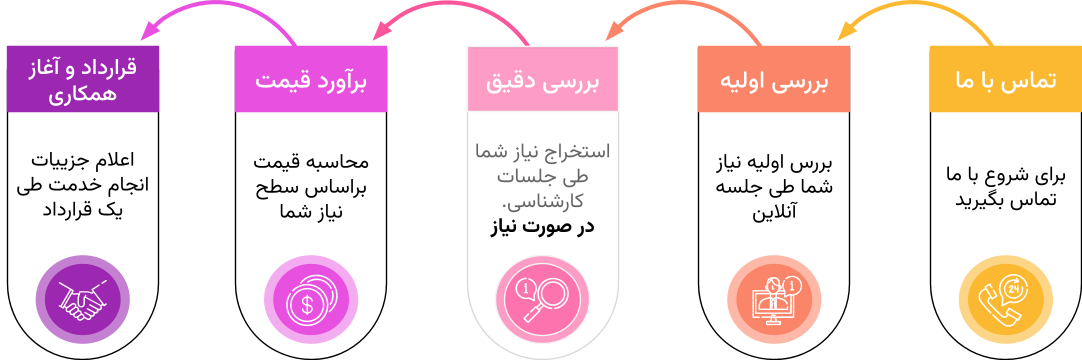
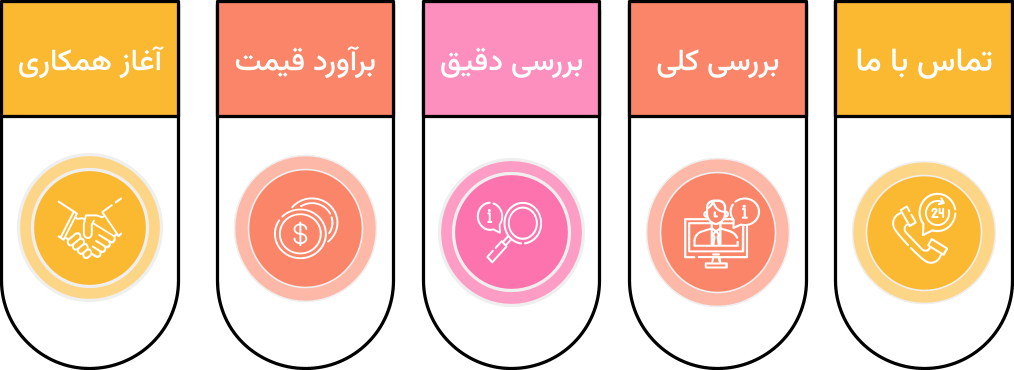
Update content based on mgh suggestions. updating cover image.

diff --git a/how-to-use-our-services/content.md b/how-to-use-our-services/content.md
@@ -1,17 +1,23 @@
 ## تماس با ما
-از طریق ایمیل، شبکههای اجتماعی و تلفن، تماس گرفته و ما را از خدمت مورد نیاز خود مطلع کنید. نحوه ارتباط با ما را میتوانید از صفحه تماس با ما مشاهده کنید.
-به طور خلاصه خدمات گزمه شامل بخشهای زیر میباشد:
-* طراحی و اجرای انواع آزمون های کارایی شامل load, stress, smoke, spike, volume. 
-* ارزیابی کیفی محصول، روند تولید و مشاوره به منظور بهبود عملکرد آن. 
+از طریق `صفحه تماس` با ما تماس بگیرید و ما را از خدمت مورد نیاز خود مطلع کنید. 
+به طور خلاصه برای خدمات زیر میتوانید اینگونه عمل کنید:
+* طراحی و اجرای انواع آزمون های کارایی شامل `load, stress, smoke, spike, volume`. 
+* ارزیابی و بازبینی کیفی محصول، شامل جنبههای مختلف کیفی همچون روند تولید و مشاوره به منظور بهبود کیفیت.
 * مشاوره، طراحی و اجرای سرویسهای DevOps از سطح زیرساخت تا تمامی ابزارها. 
-جزییات تمامی خدمات گزمه در بخش خدمات ما قابل مشاهده میباشد.
-## بررسی اولیه نیازمندی شما
-طی یک جلسه آنلاین نیازمندی شما توسط کارشناسان ما بررسی میگردد. برای خدمت آزمون کارایی، سوالاتی در خصوص میزان کاربران و تکنولوژی سامانه پرسیده خواهد شد تا بتوانیم الگویی برای تزریق بار به سیستم پیشنهاد دهیم. اگر نیازمندی شما بررسی کیفی سامانه باشد، تکنولوژی و روند توسعه سامانه، به منظور استخراج متریکهای کیفی بررسی میگردد. برای سرویس مشاوره و اجرای DevOps وضعیت فعلی شما استخراج گردیده تا بهترین نقشه راه پیشنهاد گردد.
-## بررسی دقیق نیازمندی شما
-پس از ارزیابی اولیه نیازمندی شما، نوبت به استخراج دقیق آن و تعیین محدوده خدمت مورد نظر میباشد. برای خدمت ارزیابی کارایی، در صورت در دسترس بودن سامانه مورد نظر تحت اینترنت میتوان با سرعت بالا  مورد بررسی قرار گیرد و یا اگر ایجاد دسترسی از خارج از سازمان به دلیل ملاحظات امنیتی و زیرساختی میسر نباشد، میتوان طی جلسات حضوری نیازمندی شما مورد بررسی و رصد دقیق قرار گیرد. برای خدمت ارزیابی کیفی یا مشاوره و اجرای زیرساخت DevOps، جزئیات روند انجام کار و محصول بررسی میگردد.
-> اجرای این بخش در صورت نیاز انجام گردیده و شامل پروژههای پیچیده یا پروژههایی با سطح دسترسی درون سازمانی میگردد.
+* برگزاری کارگاههای آموزشی اختصاصی.
+* نظارت بر فرآیند طراحی و پیادهسازی سامانهها نرمافزاری.
+* طراحی و پیادهسازی سامانههای نرمافزاری با تاکید بر روی خصوصیات کیفی.
+* جزییات تمامی خدمات گزمه در بخش `خدمات ما` قابل مشاهده میباشد.
+## بررسی کلی نیازمندی
+طی یک جلسه آنلاین و کوتاه، نیازمندی شما توسط کارشناسان ما بررسی میگردد. برای خدمت آزمون کارایی، سوالاتی در خصوص میزان کاربران و تکنولوژی سامانه پرسیده خواهد شد تا بتوانیم الگویی برای تزریق بار به سیستم پیشنهاد دهیم. همچنین سناریوهای کاربری برای انتخاب سناریوی تست کارایی بررسی میشود. اگر نیازمندی شما «بازبینی کیفی» سامانه باشد، تکنولوژی و روند توسعه سامانه، به منظور استخراج متریکهای کیفی بررسی میگردد و سپس نیازمندیها برای ارزیابی تعیین میشود. برای سرویس مشاوره و اجرای DevOps وضعیت فعلی شما استخراج میشود تا بهترین نقشه راه پیشنهاد گردد.
+## بررسی دقیق نیازمندی
+در پروژههای بزرگ، خاص و یا پیچیده، پس از ارزیابی کلی نیازمندی شما، نوبت به استخراج دقیق آن و تعیین محدوده خدمت مورد نظر میباشد. برای خدمت تستهای کارایی، در صورت در دسترس بودن سامانه از طریق اینترنت میتوان با سرعت بالا این موارد را بررسی کرد. اگر ایجاد دسترسی راهدور به سامانه، از خارج از سازمان به دلیل ملاحظات امنیتی و زیرساختی میسر نباشد، میتوان طی جلسات حضوری نیازمندی شما مورد بررسی و رصد دقیق قرار گیرد. برای خدمت ارزیابی کیفی یا مشاوره و اجرای زیرساخت DevOps، جزئیات روند انجام کار و محصول بررسی میگردد.
 ## نحوه محاسبه قیمت خدمات
-پارامترهای محاسبه قیمت خدمات بر اساس ارزیابی مراحل قبلی استخراج میگردند. به عنوان نمونه برای سرویس آزمون کارایی، تکنولوژی قدیمی یا خاص یک سامانه، زمان ارزیابی را افزایش داده و به طبع آن قیمت بیشتری را برای این سرویس شامل میگردد. تعداد کاربران همزمان میتواند سناریو آزمون را بسیار پیچیده یا ساده کند. نحوه دسترسی به سامانه یکی دیگر از عوامل تاثیرگذار در قیمت خدمت میباشد، دسترسی از طریق ریموت یا بستر اینترنت هزینه کمتری را نسبت به دسترسی از طریق سازمان و به صورت حضوری دارد. همچنین دسترسی به سامانه به صورت حضوری و از داخل سازمان، زمان انجام ارزیابی را افزایش میدهد. نحوه تامین منابع سخت افزاری آزمون نیز پارامتر دیگری میباشد، تامین منابع توسط گزمه شامل هزینههای جداگانهای میباشد.
+پارامترهای محاسبه قیمت خدمات بر اساس ارزیابی مراحل قبلی استخراج میگردند. موارد مختلفی میتوانند زمان و هزینه انجام کار را تحت تاثیر قرار دهند. به عنوان نمونه برای سرویس آزمون کارایی موارد زیر قابل ذکر است:
+* تکنولوژی قدیمی یا خاص یک سامانه (همچون استفاده از پروتکلهای ارتباطی غیر مرسوم)، زمان و هزینه اسکریپتنویسی و خودکارسازی سناریوهارا افزایش میدهد.
+* تعداد کاربران همزمان و نحوه تزریق آنها به سامانه، میتواند فرآیند آزمون را پیچیده یا ساده کند.
+* نحوه دسترسی به سامانه یکی دیگر از عوامل تاثیرگذار در قیمت خدمت میباشد، دسترسی از طریق ریموت یا بستر اینترنت هزینه کمتری را نسبت به دسترسی از طریق سازمان و به صورت حضوری دارد. همچنین دسترسی به سامانه به صورت حضوری و از داخل سازمان، زمان انجام ارزیابی را افزایش میدهد.
+* در بسترهای درونسازمانی، نحوه تامین منابع سخت افزاری آزمون نیز پارامتر دیگری میباشد، تامین منابع توسط گزمه شامل هزینههای جداگانهای میباشد.
 
-## ارسال قرارداد و آغاز همکاری
-در نهایت پس از اتمام ارزیابیها و محاسبه هزینه خدمات، جزئیات آنها به همراه فازبندی و زمانبندی اجرا طی قراردادی برای شما ارسال گردیده و در صورت تایید، همکاری آغاز میگردد.
+## شروع همکاری
+در نهایت پس از اتمام ارزیابیها، در صورتی که نیازمندی شما از طریق سرویسها موجود و مرسوم قابل انجام باشد، پیشفاکتور مربوطه ارسال میشود. در پروژههای پیچیدهتر جزئیات قرارداد به همراه زمانبندی و هزینه، برای شما ارسال گردیده و در صورت تایید، همکاری آغاز میگردد.
